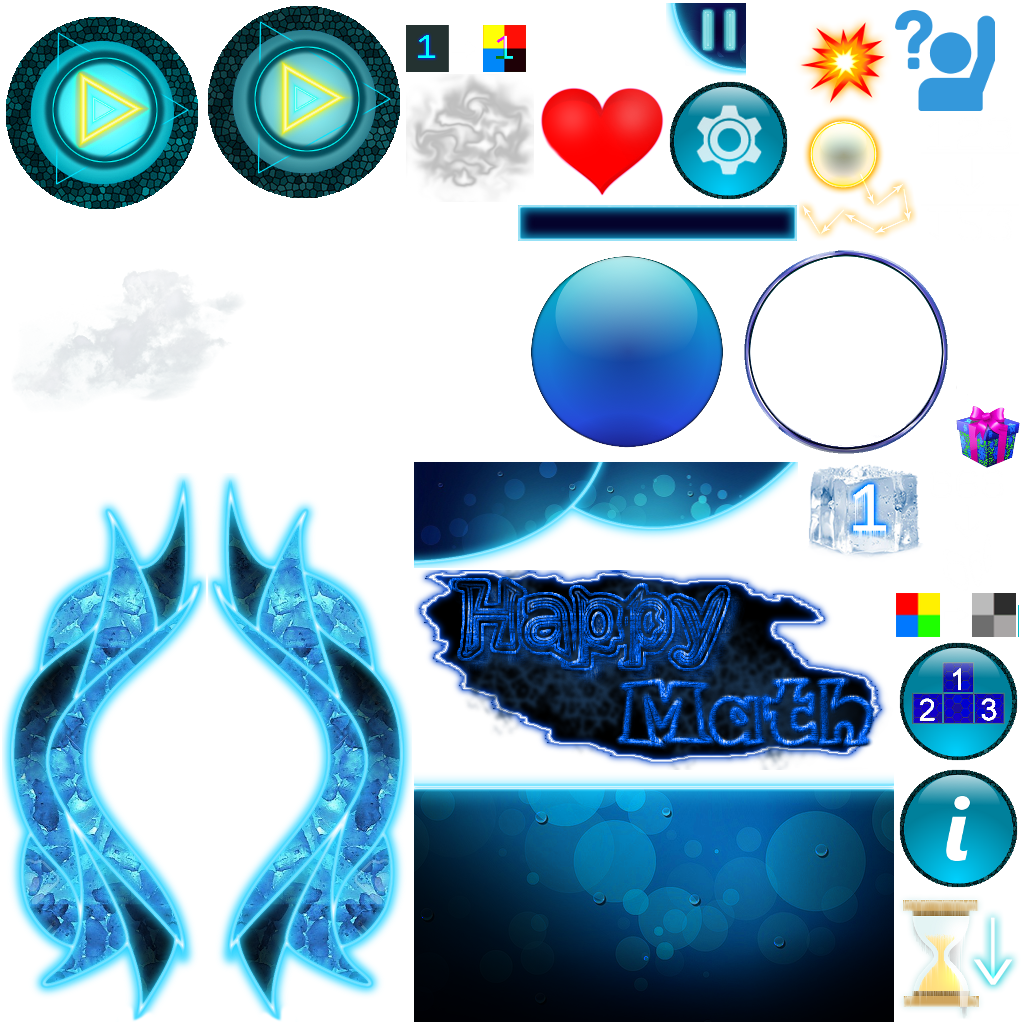
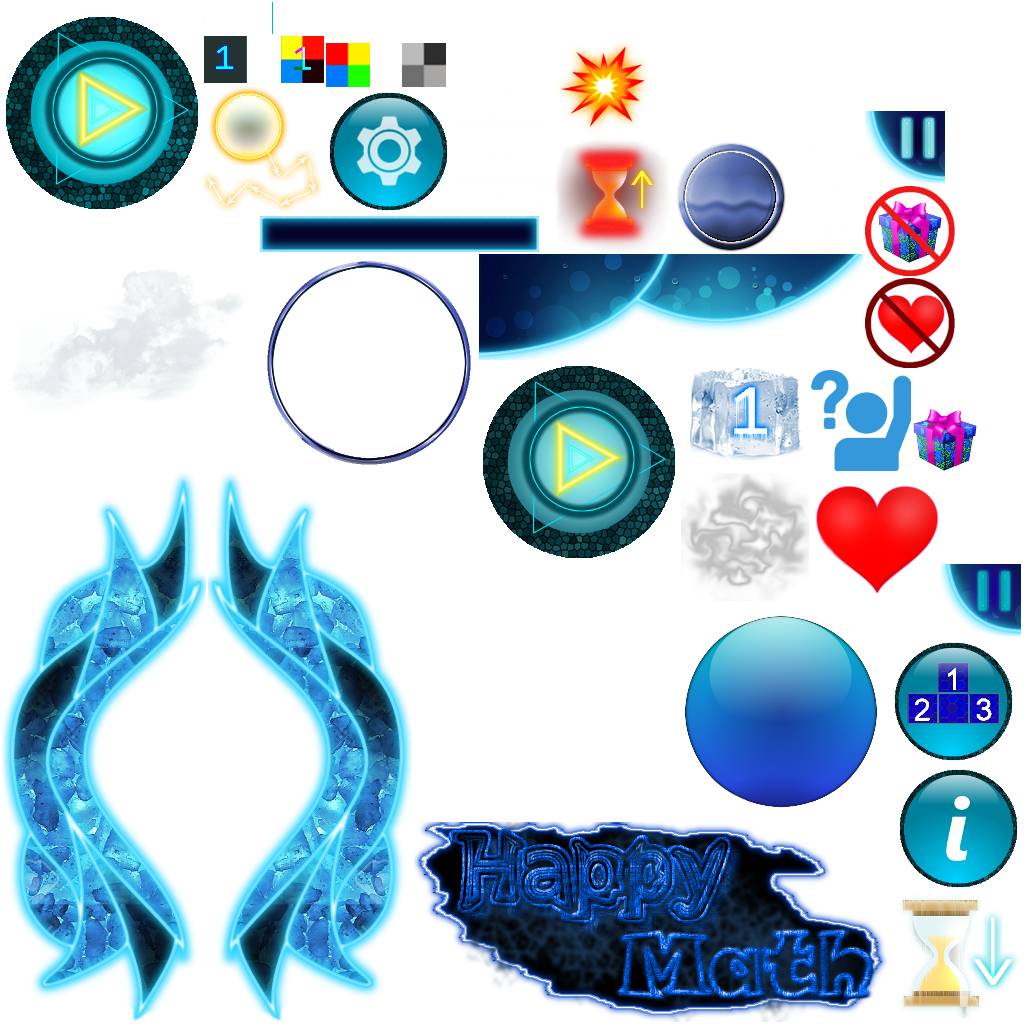
improved episode screen with images and lock also optimized imports

diff --git a/core/src/ru/neyvan/hm/game/GUI.java b/core/src/ru/neyvan/hm/game/GUI.java
@@ -3,25 +3,19 @@ package ru.neyvan.hm.game;
 import com.badlogic.gdx.Gdx;
 import com.badlogic.gdx.graphics.Color;
 import com.badlogic.gdx.graphics.GL20;
-import com.badlogic.gdx.graphics.OrthographicCamera;
 import com.badlogic.gdx.graphics.Pixmap;
 import com.badlogic.gdx.graphics.Texture;
-import com.badlogic.gdx.graphics.g2d.SpriteBatch;
 import com.badlogic.gdx.graphics.g2d.TextureRegion;
 import com.badlogic.gdx.graphics.glutils.FrameBuffer;
 import com.badlogic.gdx.graphics.glutils.ShaderProgram;
 import com.badlogic.gdx.math.Interpolation;
-import com.badlogic.gdx.math.Matrix4;
 import com.badlogic.gdx.scenes.scene2d.Action;
 import com.badlogic.gdx.scenes.scene2d.Actor;
 import com.badlogic.gdx.scenes.scene2d.Group;
 import com.badlogic.gdx.scenes.scene2d.Stage;
 import com.badlogic.gdx.scenes.scene2d.actions.Actions;
-import com.badlogic.gdx.scenes.scene2d.actions.MoveToAction;
 import com.badlogic.gdx.scenes.scene2d.actions.ParallelAction;
 import com.badlogic.gdx.scenes.scene2d.actions.RepeatAction;
-import com.badlogic.gdx.scenes.scene2d.actions.RotateByAction;
-import com.badlogic.gdx.scenes.scene2d.actions.RotateToAction;
 import com.badlogic.gdx.scenes.scene2d.actions.ScaleToAction;
 import com.badlogic.gdx.scenes.scene2d.actions.SequenceAction;
 import com.badlogic.gdx.scenes.scene2d.ui.Button;
@@ -35,12 +29,10 @@ import com.badlogic.gdx.scenes.scene2d.ui.Table;
 import com.badlogic.gdx.scenes.scene2d.utils.ChangeListener;
 import com.badlogic.gdx.scenes.scene2d.utils.TextureRegionDrawable;
 import com.badlogic.gdx.utils.Align;
-import com.badlogic.gdx.utils.Pool;
 import com.badlogic.gdx.utils.Scaling;
 import com.badlogic.gdx.utils.Timer;
 import com.badlogic.gdx.utils.viewport.ExtendViewport;
 
-import jdk.nashorn.internal.codegen.ClassEmitter;
 import ru.neyvan.hm.Constants;
 import ru.neyvan.hm.HM;
 import ru.neyvan.hm.actors.ChangeSpeedActor;
@@ -49,10 +41,7 @@ import ru.neyvan.hm.actors.GameCircle;
 import ru.neyvan.hm.actors.LevelInfoBox;
 import ru.neyvan.hm.actors.LifesBox;
 import ru.neyvan.hm.actors.ScoreBox;
-import ru.neyvan.hm.actors.Shine;
 import ru.neyvan.hm.actors.StreamEnergy;
-import ru.neyvan.hm.levels.LevelNumber;
-import ru.neyvan.hm.screens.MenuScreen;
 import ru.neyvan.hm.screens.PlayScreen;
 import ru.neyvan.hm.surprises.ScreenEffects;
 

diff --git a/core/src/ru/neyvan/hm/actors/FieldEpisode.java b/core/src/ru/neyvan/hm/actors/FieldEpisode.java
@@ -1,9 +1,12 @@
 package ru.neyvan.hm.actors;
 
+import com.badlogic.gdx.graphics.g2d.Batch;
+import com.badlogic.gdx.graphics.g2d.TextureRegion;
 import com.badlogic.gdx.scenes.scene2d.Actor;
 import com.badlogic.gdx.scenes.scene2d.ui.Button;
 import com.badlogic.gdx.scenes.scene2d.utils.ChangeListener;
 import com.badlogic.gdx.scenes.scene2d.utils.TextureRegionDrawable;
+import com.badlogic.gdx.utils.Align;
 
 import ru.neyvan.hm.HM;
 import ru.neyvan.hm.levels.LevelNumber;
@@ -15,8 +18,16 @@ import ru.neyvan.hm.screens.EpisodesScreen;
 public class FieldEpisode extends Button{
 
     private LevelNumber episodeNumber;
+    private TextureRegion lockTexture;
+    private float lockWidth;
+    private float lockHeight;
+    private boolean isOpen;
+
     public FieldEpisode(final LevelNumber episodeNumber, final EpisodesScreen parent){
-        super(new TextureRegionDrawable(HM.game.texture.atlas.findRegion("title")));
+        super(new TextureRegionDrawable(HM.game.texture.getEpisodesImage(episodeNumber.getEpisode())));
+        lockTexture = HM.game.texture.atlas.findRegion("lock");
+        lockHeight = getHeight()*0.3f;
+        lockWidth = lockHeight/lockTexture.getRegionHeight() * lockTexture.getRegionWidth();
         this.episodeNumber = episodeNumber;
         addListener(new ChangeListener() {
             @Override
@@ -29,11 +40,19 @@ public class FieldEpisode extends Button{
         refleshView();
     }
 
+    @Override
+    public void draw(Batch batch, float parentAlpha) {
+        super.draw(batch, parentAlpha);
+        if(!isOpen) batch.draw(lockTexture, getX(Align.center)-lockWidth/2, getY(Align.center)-lockHeight/2,
+                lockWidth, lockHeight);
+    }
+
     private void refleshView() {
-        if(HM.game.player.isOpened(episodeNumber)){
-            setColor(0f, 1f/(episodeNumber.getEpisode()+0.1f), 0f, 1.0f);
+        isOpen = HM.game.player.isOpened(episodeNumber);
+        if(isOpen){
+            setColor(1, 1, 1, 1.0f);
         } else {
-            setColor(0, 0, 1, 1.0f);
+            setColor(0.4f, 0.4f, 0.4f, 1.0f);
         }
     }
 }

diff --git a/core/src/ru/neyvan/hm/managers/TextureManager.java b/core/src/ru/neyvan/hm/managers/TextureManager.java
@@ -12,6 +12,7 @@ import com.badlogic.gdx.graphics.g2d.TextureRegion;
 import com.badlogic.gdx.scenes.scene2d.ui.Skin;
 import com.badlogic.gdx.scenes.scene2d.utils.NinePatchDrawable;
 
+import ru.neyvan.hm.Constants;
 import ru.neyvan.hm.HM;
 
 /**
@@ -67,14 +68,18 @@ public class TextureManager implements Manager{
         gameBackground = new Texture("backdrops/backdrop"+i+".jpg");
         return gameBackground;
     }
-    public void setEpisodesImages(int maxCount){
-        episodesImage = new Texture[maxCount];
-        for (int i=0; i<maxCount; i++){
-            episodesImage[i] = new Texture("minEpisodes/episode"+i+".jpg");
+    public void setEpisodesImages(){
+        episodesImage = new Texture[Constants.MAX_EPISODE];
+        for (int i=1; i<=Constants.MAX_EPISODE; i++){
+            episodesImage[i-1] = new Texture("episodes_images/episode"+i+".jpg");
         }
     }
     public Texture getEpisodesImage(int i){
-        return episodesImage[i];
+        if(i <= 0 || i > episodesImage.length){
+            Gdx.app.error("TextureManager.getEpisodeImage", "such episode not exist: "+i+", problem solved by install episodeImage0");
+            return episodesImage[0];
+        }
+        return episodesImage[i-1];
     }
     public void disposeEpisodesImages(){
         for (int i=0; i<episodesImage.length; i++){

diff --git a/core/src/ru/neyvan/hm/actors/GameCircle.java b/core/src/ru/neyvan/hm/actors/GameCircle.java
@@ -2,25 +2,18 @@ package ru.neyvan.hm.actors;
 
 import com.badlogic.gdx.Gdx;
 import com.badlogic.gdx.graphics.Color;
-import com.badlogic.gdx.graphics.g2d.ParticleEffect;
-import com.badlogic.gdx.graphics.g2d.ParticleEffectPool;
 import com.badlogic.gdx.scenes.scene2d.Group;
 import com.badlogic.gdx.scenes.scene2d.InputEvent;
 import com.badlogic.gdx.scenes.scene2d.actions.Actions;
 import com.badlogic.gdx.scenes.scene2d.actions.RunnableAction;
-import com.badlogic.gdx.scenes.scene2d.actions.SequenceAction;
 import com.badlogic.gdx.scenes.scene2d.ui.Image;
-import com.badlogic.gdx.scenes.scene2d.ui.Label;
 import com.badlogic.gdx.scenes.scene2d.ui.Stack;
 import com.badlogic.gdx.scenes.scene2d.utils.ClickListener;
 import com.badlogic.gdx.scenes.scene2d.utils.TextureRegionDrawable;
-import com.badlogic.gdx.utils.Align;
-import com.badlogic.gdx.utils.Timer;
 
 import ru.neyvan.hm.HM;
 import ru.neyvan.hm.game.Symbol;
 import ru.neyvan.hm.screens.PlayScreen;
-import ru.neyvan.hm.surprises.Explosion;
 
 /**
  * This class for graphical changes of game, not for game logic!

diff --git a/core/src/ru/neyvan/hm/screens/EpisodesScreen.java b/core/src/ru/neyvan/hm/screens/EpisodesScreen.java
@@ -43,6 +43,7 @@ public class EpisodesScreen extends ScreenAdapter {
         stage = new Stage(new ExtendViewport(Constants.MIN_WIDTH, Constants.MIN_HEIGHT,
                 Constants.MAX_WIDTH, Constants.MAX_HEIGHT));
         skin = HM.game.texture.skin;
+        HM.game.texture.setEpisodesImages();
 
         mainTable = new Table();
         mainTable.setFillParent(true);
@@ -57,6 +58,7 @@ public class EpisodesScreen extends ScreenAdapter {
         scrollTable = new EpisodesTable(skin, this);
         scrollPane = new ScrollPane(scrollTable);
         scrollPane.setScrollingDisabled(true, false);
+        scrollPane.scrollTo(0,0,0,scrollPane.getScrollHeight());
 
         buttonsTable = new ButtonsEpisodeTable(skin, this);
         buttonsTable.setBackground(HM.game.texture.getNinePatchDrawable("frame"));
@@ -101,6 +103,7 @@ public class EpisodesScreen extends ScreenAdapter {
     @Override
     public void dispose() {
         stage.dispose();
+        HM.game.texture.disposeEpisodesImages();
     }
 
     public void backToMenu() {

diff --git a/core/src/ru/neyvan/hm/game/GamePause.java b/core/src/ru/neyvan/hm/game/GamePause.java
@@ -2,7 +2,6 @@ package ru.neyvan.hm.game;
 
 import com.badlogic.gdx.graphics.Pixmap;
 import com.badlogic.gdx.graphics.Texture;
-import com.badlogic.gdx.math.Interpolation;
 import com.badlogic.gdx.scenes.scene2d.Actor;
 import com.badlogic.gdx.scenes.scene2d.Stage;
 import com.badlogic.gdx.scenes.scene2d.actions.Actions;
@@ -12,7 +11,6 @@ import com.badlogic.gdx.scenes.scene2d.ui.ScrollPane;
 import com.badlogic.gdx.scenes.scene2d.ui.Skin;
 import com.badlogic.gdx.scenes.scene2d.ui.Table;
 import com.badlogic.gdx.scenes.scene2d.ui.TextButton;
-import com.badlogic.gdx.scenes.scene2d.ui.Value;
 import com.badlogic.gdx.scenes.scene2d.utils.ChangeListener;
 import com.badlogic.gdx.scenes.scene2d.utils.TextureRegionDrawable;
 import com.badlogic.gdx.utils.Align;
@@ -21,7 +19,6 @@ import com.badlogic.gdx.utils.Timer;
 
 import ru.neyvan.hm.HM;
 import ru.neyvan.hm.actors.WindowExit;
-import ru.neyvan.hm.levels.LevelNumber;
 import ru.neyvan.hm.screens.PlayScreen;
 
 public class GamePause {

diff --git a/core/src/ru/neyvan/hm/actors/SymbolText.java b/core/src/ru/neyvan/hm/actors/SymbolText.java
@@ -13,11 +13,8 @@ import com.badlogic.gdx.graphics.g2d.SpriteBatch;
 import com.badlogic.gdx.graphics.g2d.TextureRegion;
 import com.badlogic.gdx.graphics.glutils.FrameBuffer;
 import com.badlogic.gdx.graphics.glutils.ShaderProgram;
-import com.badlogic.gdx.graphics.glutils.ShapeRenderer;
 import com.badlogic.gdx.math.Matrix4;
 import com.badlogic.gdx.scenes.scene2d.Actor;
-import com.badlogic.gdx.scenes.scene2d.utils.TextureRegionDrawable;
-import com.badlogic.gdx.utils.Align;
 import com.badlogic.gdx.utils.ScreenUtils;
 
 import ru.neyvan.hm.HM;

diff --git a/core/src/ru/neyvan/hm/actors/WindowContinueGame.java b/core/src/ru/neyvan/hm/actors/WindowContinueGame.java
@@ -1,6 +1,5 @@
 package ru.neyvan.hm.actors;
 
-import com.badlogic.gdx.Gdx;
 import com.badlogic.gdx.scenes.scene2d.Actor;
 import com.badlogic.gdx.scenes.scene2d.Stage;
 import com.badlogic.gdx.scenes.scene2d.ui.Button;
@@ -12,7 +11,6 @@ import com.badlogic.gdx.scenes.scene2d.utils.ChangeListener;
 import com.badlogic.gdx.utils.Align;
 
 import ru.neyvan.hm.HM;
-import ru.neyvan.hm.game.GameDataLoader;
 import ru.neyvan.hm.screens.EpisodesScreen;
 import ru.neyvan.hm.screens.MenuScreen;
 import ru.neyvan.hm.screens.PlayScreen;

diff --git a/core/src/ru/neyvan/hm/screens/WelcomeScreen.java b/core/src/ru/neyvan/hm/screens/WelcomeScreen.java
@@ -7,11 +7,9 @@ import com.badlogic.gdx.graphics.Texture;
 import com.badlogic.gdx.scenes.scene2d.Stage;
 import com.badlogic.gdx.scenes.scene2d.actions.Actions;
 import com.badlogic.gdx.scenes.scene2d.ui.Image;
-import com.badlogic.gdx.scenes.scene2d.utils.TextureRegionDrawable;
 import com.badlogic.gdx.utils.Align;
 import com.badlogic.gdx.utils.Scaling;
 import com.badlogic.gdx.utils.viewport.ExtendViewport;
-import com.badlogic.gdx.utils.viewport.FillViewport;
 
 import ru.neyvan.hm.Constants;
 import ru.neyvan.hm.HM;

diff --git a/core/src/ru/neyvan/hm/actors/CircleShaderActor.java b/core/src/ru/neyvan/hm/actors/CircleShaderActor.java
@@ -1,14 +1,10 @@
 package ru.neyvan.hm.actors;
 
-import com.badlogic.gdx.Gdx;
 import com.badlogic.gdx.graphics.Color;
 import com.badlogic.gdx.graphics.Texture;
 import com.badlogic.gdx.graphics.g2d.Batch;
-import com.badlogic.gdx.graphics.g2d.SpriteBatch;
 import com.badlogic.gdx.graphics.glutils.ShaderProgram;
-import com.badlogic.gdx.math.Matrix4;
 import com.badlogic.gdx.scenes.scene2d.Actor;
-import com.badlogic.gdx.scenes.scene2d.ui.Widget;
 
 import ru.neyvan.hm.HM;
 

diff --git a/core/src/ru/neyvan/hm/game/Game.java b/core/src/ru/neyvan/hm/game/Game.java
@@ -3,16 +3,12 @@ package ru.neyvan.hm.game;
 import com.badlogic.gdx.Gdx;
 import com.badlogic.gdx.math.MathUtils;
 
-import java.util.Iterator;
-
 import ru.neyvan.hm.Constants;
 import ru.neyvan.hm.HM;
-import ru.neyvan.hm.Player;
 import ru.neyvan.hm.levels.Check;
 import ru.neyvan.hm.levels.Level;
 import ru.neyvan.hm.levels.LevelLoader;
 import ru.neyvan.hm.levels.LevelNumber;
-import ru.neyvan.hm.screens.PlayScreen;
 
 
 public class Game {

diff --git a/core/src/ru/neyvan/hm/HM.java b/core/src/ru/neyvan/hm/HM.java
@@ -10,13 +10,11 @@ import com.badlogic.gdx.utils.I18NBundle;
 
 import java.util.Locale;
 
-import ru.neyvan.hm.levels.LevelNumber;
 import ru.neyvan.hm.managers.MusicManager;
 import ru.neyvan.hm.managers.ShaderManager;
 import ru.neyvan.hm.managers.SoundManager;
 import ru.neyvan.hm.managers.TextureManager;
 import ru.neyvan.hm.screens.MenuScreen;
-import ru.neyvan.hm.screens.PlayScreen;
 import ru.neyvan.hm.screens.WelcomeScreen;
 
 /**
